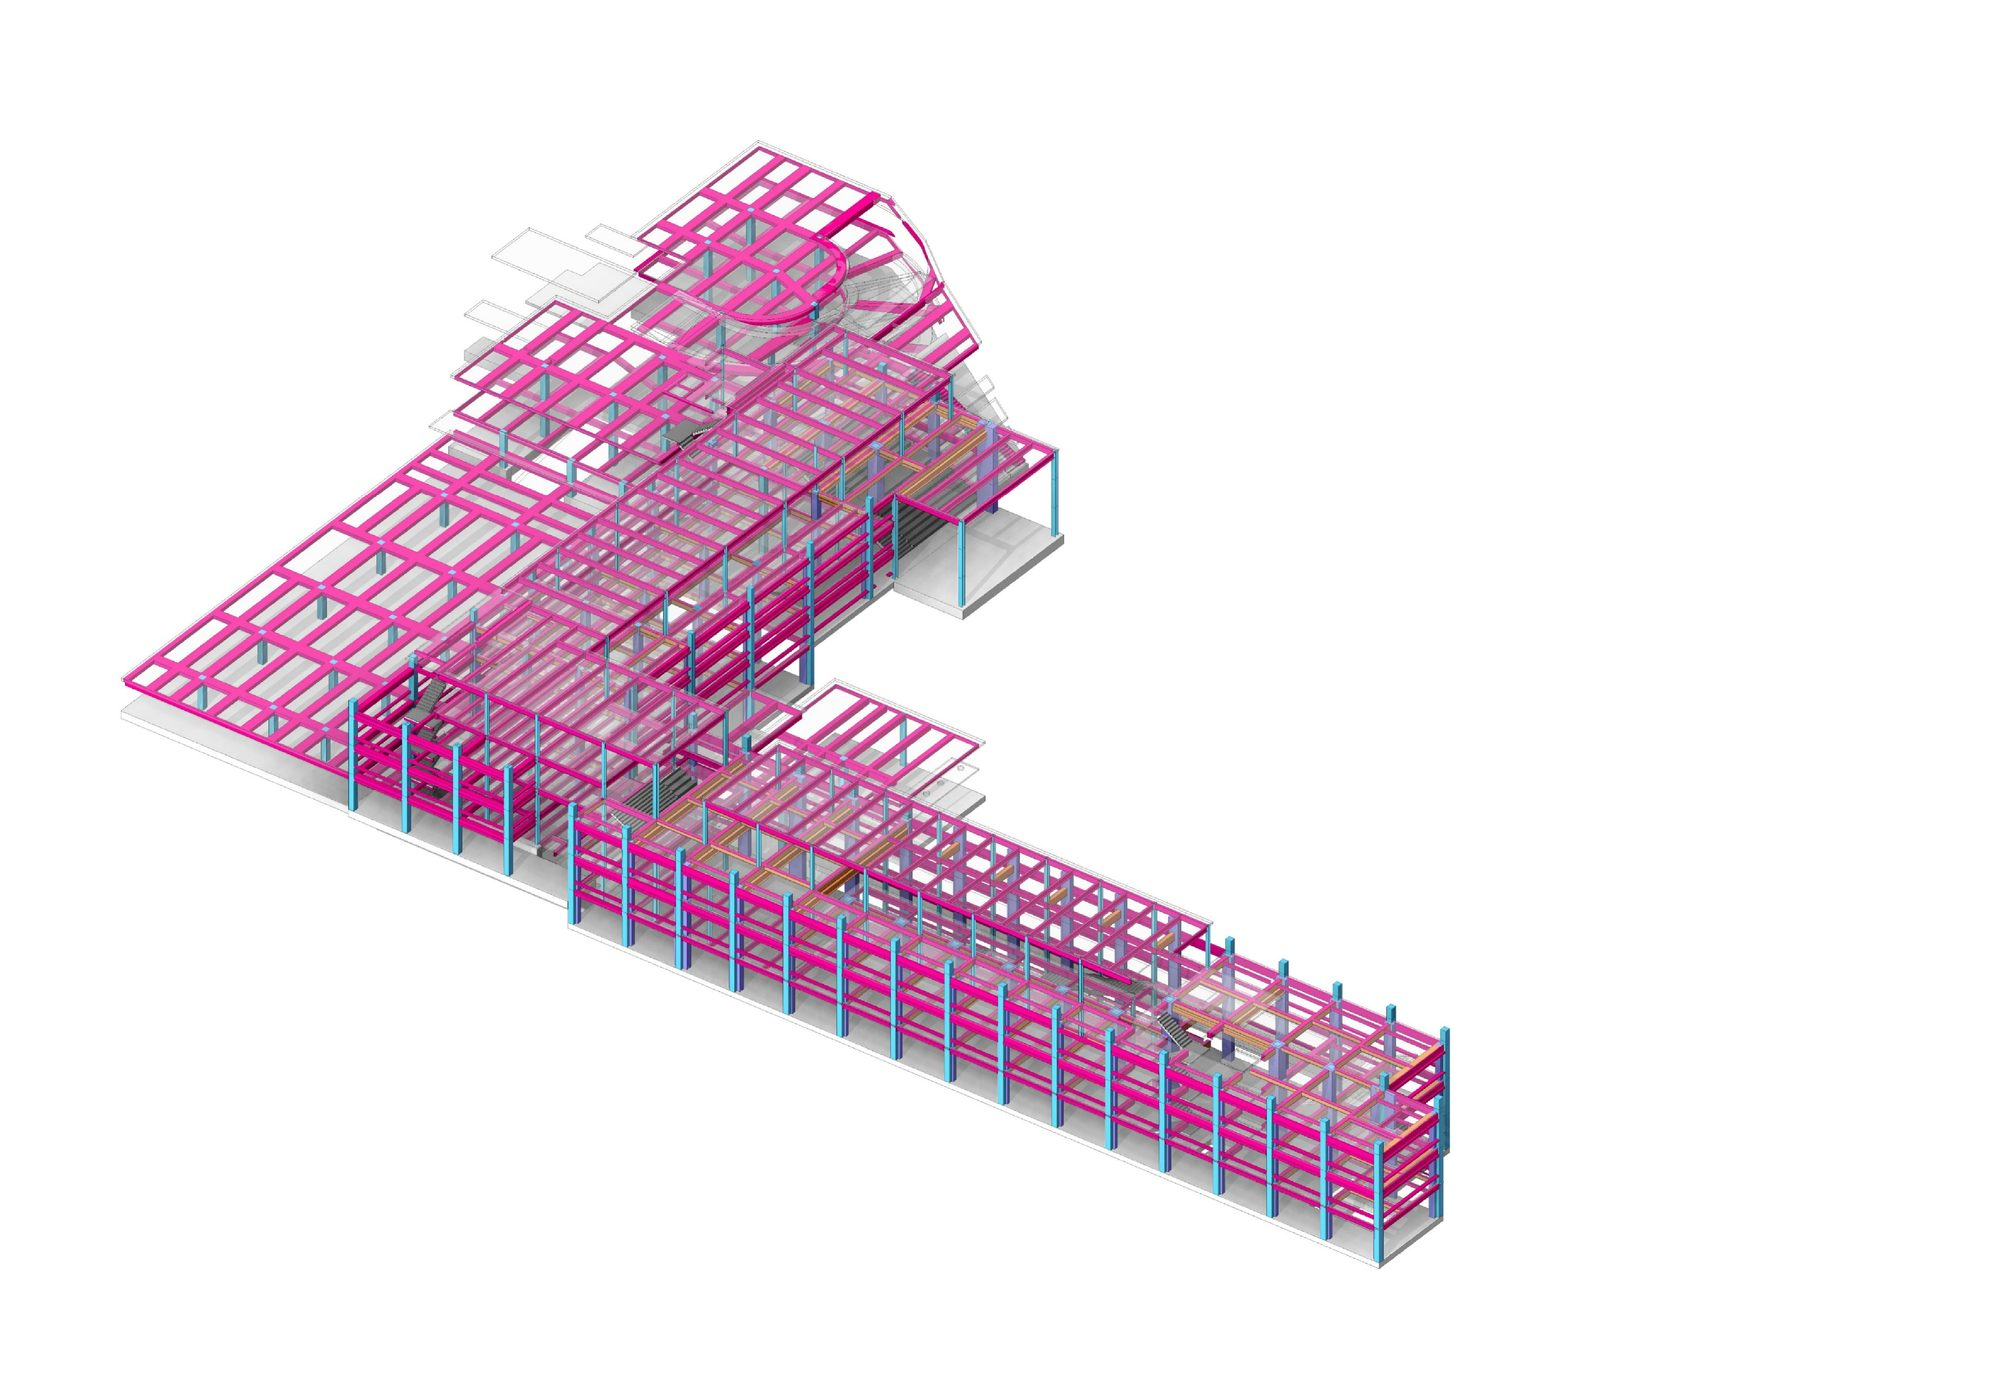
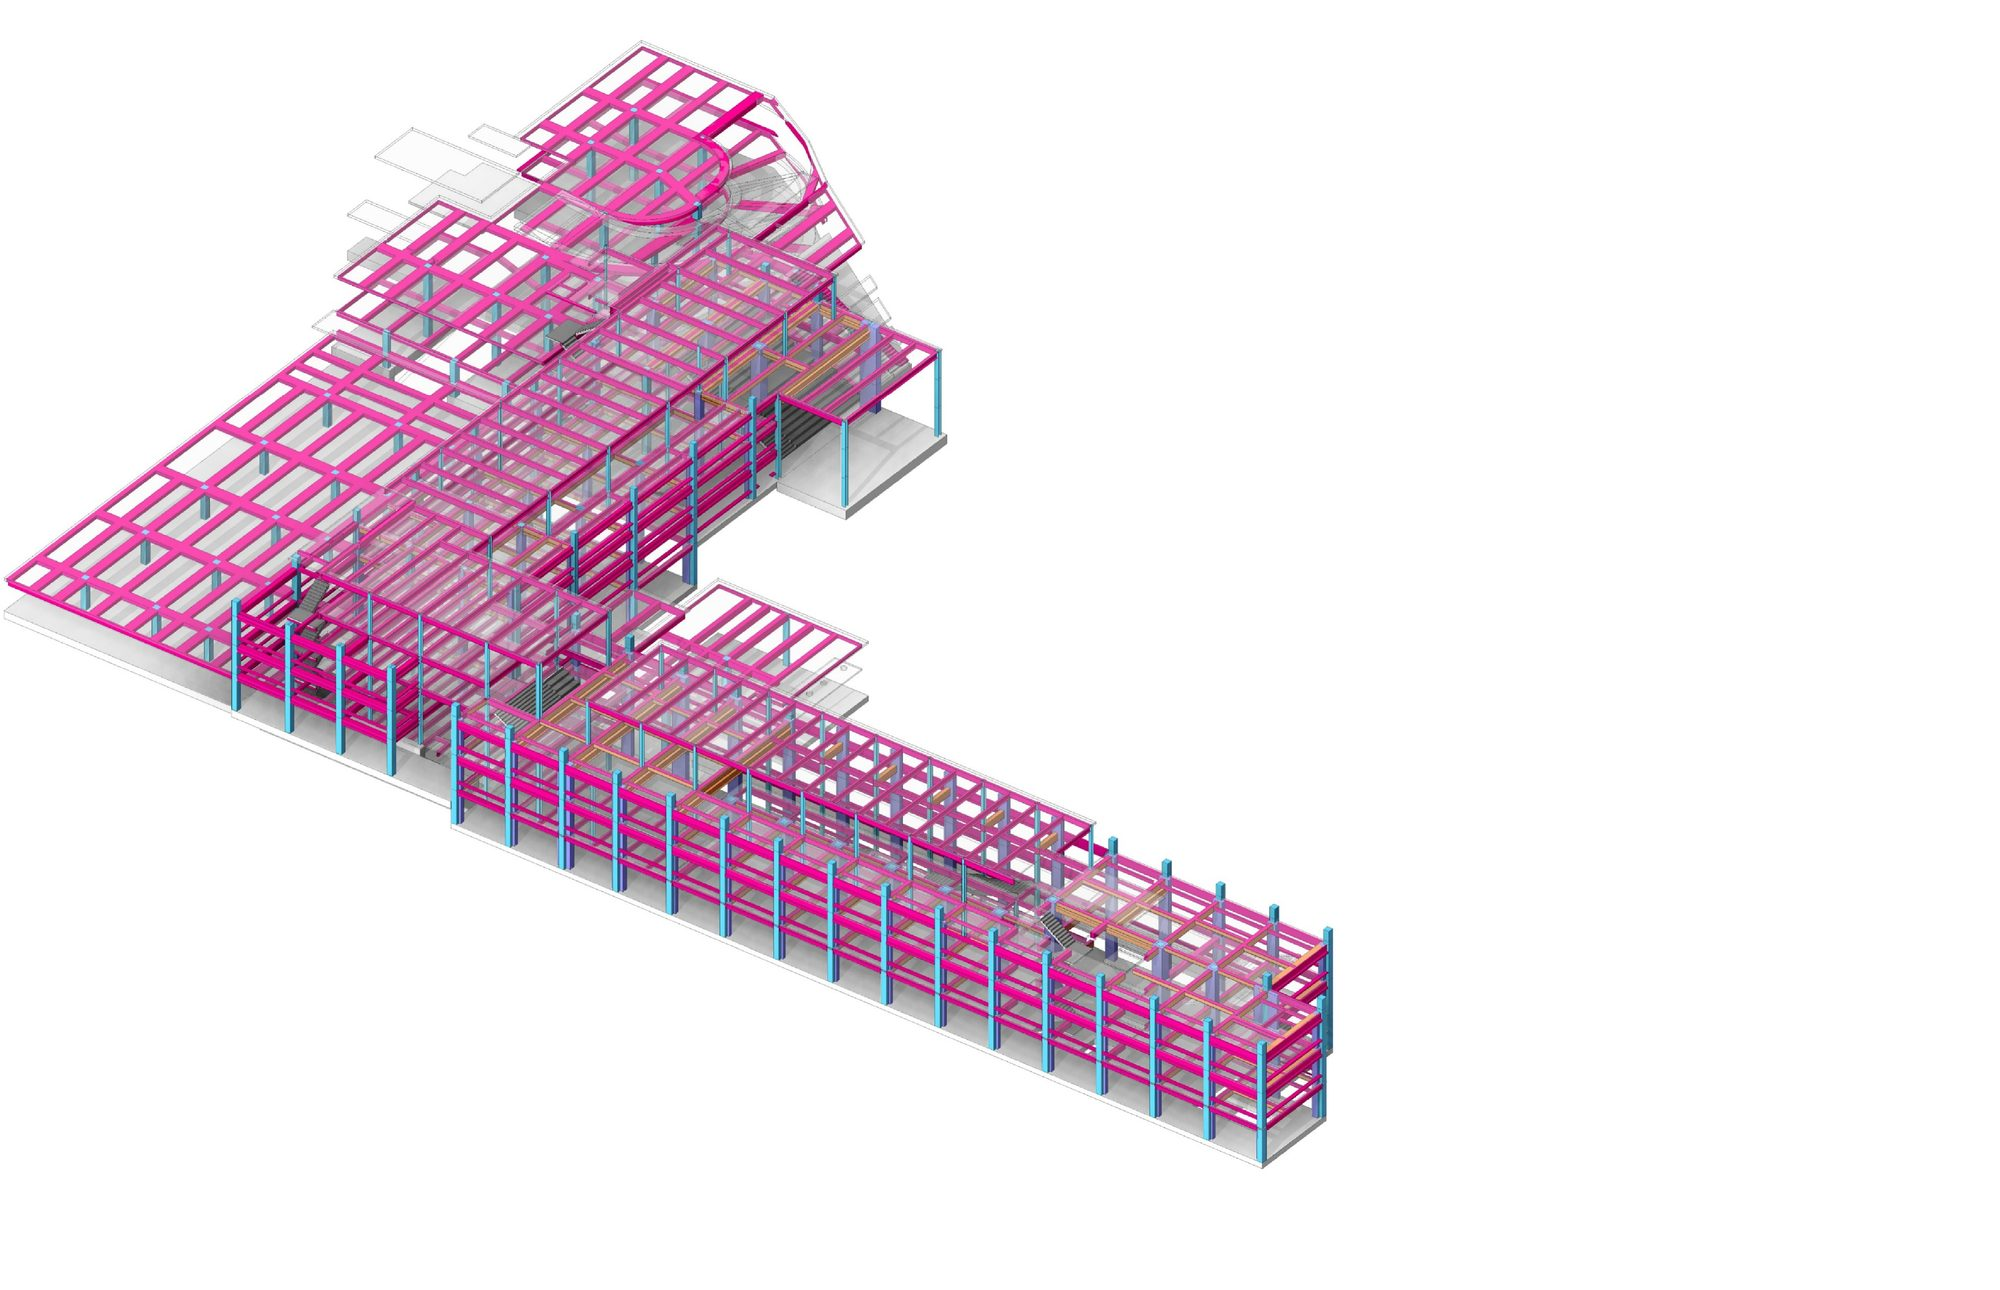
Yuhan: align structural iso's left corner with the drawings/video; tighter gap above it
Claude-Session: https://claude.ai/code/session_01RbqegkuBog2qX8qkWjcbtQ

Changed region(s): [[0.0, 0.031, 0.744, 0.9302]]

diff --git a/index.html b/index.html
@@ -491,7 +491,7 @@
         { name: "YUHAN_03.JPG", src: "images/YUHAN_03.jpg", width: "90%", right: true },
         { name: "YUHAN_05.JPG", src: "images/YUHAN_05.jpg", top: 60 },
         { name: "YUHAN_06.JPG", src: "images/YUHAN_06.jpg", top: 120, width: "85%" },
-        { name: "YUHAN_11.JPG", src: "images/YUHAN_11.jpg", top: 60, width: "85%" },
+        { name: "YUHAN_11.JPG", src: "images/YUHAN_11.jpg", top: 20, width: "85%" },
         { name: "YUHAN_09.MP4", src: "images/YUHAN_09.mp4", top: 60, width: "85%" },
         { name: "YUHAN_08.JPG", src: "images/YUHAN_08.jpg", top: 120 }
       ]
